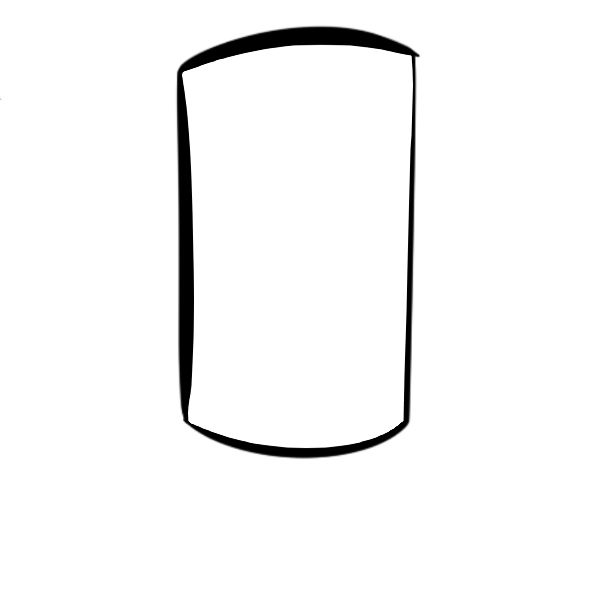
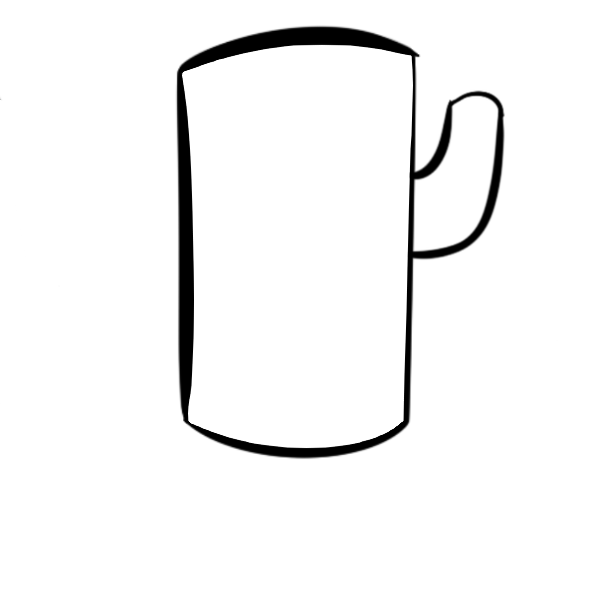
no idea what i'm doing atp

Changed region(s): [[0.69, 0.15, 0.84, 0.45]]

diff --git a/src/view_guycustomizer.c b/src/view_guycustomizer.c
@@ -4,23 +4,58 @@
 #include <string.h>
 #include <stdio.h>
 
+typedef enum {
+    gcz_GuySourceKind_Chaos,
+    gcz_GuySourceKind_HalfBreed,
+    gcz_GuySourceKind_Pure,
+    gcz_GuySourceKind_COUNT,
+} gcz_GuySourceKind;
+static char *gcz_guy_source_names[gcz_GuySourceKind_COUNT] = {
+    [gcz_GuySourceKind_Chaos]     = "chaos",
+    [gcz_GuySourceKind_HalfBreed] = "half breed",
+    [gcz_GuySourceKind_Pure]      = "pure",
+};
+typedef struct {
+    gcz_GuySourceKind kind;
+    guy_Sex sex;
+    guy_Race races[2];
+} gcz_GuySource;
+
+static guy_Guy gcz_guy_from_source(gcz_GuySource source) {
+    switch (source.kind) {
+        case gcz_GuySourceKind_Chaos: {
+            return guy_from_chaos(source.sex);
+        } break;
+        case gcz_GuySourceKind_HalfBreed: {
+            guy_Guy mom = guy_from_race(source.races[0], guy_Sex_Female);
+            guy_Guy dad = guy_from_race(source.races[1], guy_Sex_Male);
+            return guy_from_parents(&mom, &dad);
+        } break;
+        case gcz_GuySourceKind_Pure: {
+            return guy_from_race(source.races[0], source.sex);
+        } break;
+
+        case gcz_GuySourceKind_COUNT: {
+        } break;
+    }
+    return (guy_Guy){0};
+}
+
 static struct {
     view_Transition next_view;
 
-    guy_Race race;
-    guy_Sex sex;
+    gcz_GuySource source;
 } view;
 
 void view_guycustomizer_init(view_Transition _) {
     memset(&view, 0, sizeof(view));
 
-    view.race = guy_Race_Bunny;
-    view.sex = guy_Sex_Female;
-    save.run.guys[0] = guy_from_race(view.race, view.sex);
-    // save.run.guys[0].genes[guy_GeneLoc_HairAsset]->asset[0] = guy_Asset_HumanHair4Front;
-    // save.run.guys[0].genes[guy_GeneLoc_HairAsset]->asset[1] = guy_Asset_HumanHair4Back;
-    // save.run.guys[0].genes[guy_GeneLoc_Girth1]->amount = 4.0f;
-    ui_guy_show_detail_page(&save.run.guys[0]);
+    view.source.kind = gcz_GuySourceKind_HalfBreed;
+    view.source.races[0] = guy_Race_Moai;
+    view.source.races[1] = guy_Race_Bunny;
+    view.source.sex = guy_Sex_Female;
+    save.run.guys[0] = gcz_guy_from_source(view.source);
+    // ui_guy_show_detail_page(&save.run.guys[0]);
 }
 void view_guycustomizer_free(void) {}
 
@@ -34,6 +69,72 @@ void view_guycustomizer_render(void) {
     RL_ClearBackground(RL_WHITE);
     ui_render(ui_create_layout());
     RL_EndDrawing();
+}
+
+
+static void gcz_race_input(guy_Race *out) {
+
+    CLAY_AUTO_ID({
+        .layout = {
+            .layoutDirection = CLAY_TOP_TO_BOTTOM,
+            .childGap = 8,
+            .sizing.height = CLAY_SIZING_FIT(100, 200),
+        },
+        .clip = {
+            .horizontal = true,
+            .vertical = true,
+            .childOffset = Clay_GetScrollOffset()
+        },
+    }) {
+        for (guy_Race r = 1; r < guy_Race_COUNT; r++) {
+            char *race_name = guy_race_names[r];
+
+            CLAY_AUTO_ID({ .layout.padding.left = 16 }) {
+                Clay_String tmp;
+                ui_sprintf(
+                    tmp,
+                    "[%s] %s%s",
+                    (r == *out) ? "x" : "  ",
+                    race_name,
+                    Clay_Hovered() ? " <-" : ""
+                );
+
+                CLAY_TEXT(tmp, ui_font(ui_Font_Desc));
+
+                if (Clay_Hovered() && (
+                    Clay_GetPointerState().state == 
+                        CLAY_POINTER_DATA_RELEASED_THIS_FRAME
+                ))
+                    *out = r;
+            }
+        }
+    }
+}
+
+static void gcz_sex_input(guy_Sex *sex_out) {
+    for (int i = 0; i < 2; i++) {
+        guy_Sex sex = i ? guy_Sex_Male : guy_Sex_Female;
+        char *sex_name = i ? "male" : "female";
+
+        CLAY_AUTO_ID({ .layout.padding.left = 16 }) {
+            Clay_String tmp;
+            ui_sprintf(
+                tmp,
+                "[%s] %s%s",
+                (sex == *sex_out) ? "x" : "  ",
+                sex_name,
+                Clay_Hovered() ? " <-" : ""
+            );
+
+            CLAY_TEXT(tmp, ui_font(ui_Font_Desc));
+
+            if (Clay_Hovered() && (
+                Clay_GetPointerState().state == 
+                    CLAY_POINTER_DATA_RELEASED_THIS_FRAME
+            ))
+                *sex_out = sex;
+        }
+    }
 }
 
 static Clay_RenderCommandArray ui_create_layout(void) {
@@ -52,17 +153,19 @@ static Clay_RenderCommandArray ui_create_layout(void) {
         .backgroundColor = {0}
     }) {
 
-        CLAY_TEXT(CLAY_STRING("race"), ui_font(ui_Font_Button));
-        for (guy_Race r = 0; r < guy_Race_COUNT; r++) {
-            char *race_name = r ? guy_race_names[r] : "CHAOS";
+        CLAY_TEXT(CLAY_STRING("guy tester"), ui_font(ui_Font_SubTitle));
+        CLAY_TEXT(CLAY_STRING("method"), ui_font(ui_Font_Desc));
+
+        for (gcz_GuySourceKind sauce = 0; sauce < gcz_GuySourceKind_COUNT; sauce++) {
+            char *sauce_name = gcz_guy_source_names[sauce];
 
             CLAY_AUTO_ID({ .layout.padding.left = 16 }) {
                 Clay_String tmp;
                 ui_sprintf(
                     tmp,
                     "[%s] %s%s",
-                    (r == view.race) ? "x" : "  ",
-                    race_name,
+                    (sauce == view.source.kind) ? "x" : "  ",
+                    sauce_name,
                     Clay_Hovered() ? " <-" : ""
                 );
 
@@ -72,33 +175,39 @@ static Clay_RenderCommandArray ui_create_layout(void) {
                     Clay_GetPointerState().state == 
                         CLAY_POINTER_DATA_RELEASED_THIS_FRAME
                 ))
-                    view.race = r;
+                    view.source.kind = sauce;
             }
         }
+        CLAY_TEXT(CLAY_STRING(" "), ui_font(ui_Font_Button));
 
-        CLAY_TEXT(CLAY_STRING("sex"), ui_font(ui_Font_Button));
-        for (int i = 0; i < 2; i++) {
-            guy_Sex sex = i ? guy_Sex_Male : guy_Sex_Female;
-            char *sex_name = i ? "male" : "female";
+        switch (view.source.kind) {
 
-            CLAY_AUTO_ID({ .layout.padding.left = 16 }) {
-                Clay_String tmp;
-                ui_sprintf(
-                    tmp,
-                    "[%s] %s%s",
-                    (sex == view.sex) ? "x" : "  ",
-                    sex_name,
-                    Clay_Hovered() ? " <-" : ""
-                );
+            case gcz_GuySourceKind_COUNT:
+            case gcz_GuySourceKind_Chaos: {
+                CLAY_TEXT(CLAY_STRING("sex"), ui_font(ui_Font_Desc));
+                gcz_sex_input(&view.source.sex);
+            } break;
 
-                CLAY_TEXT(tmp, ui_font(ui_Font_Desc));
+            case gcz_GuySourceKind_HalfBreed: {
+                CLAY_TEXT(CLAY_STRING("mom race"), ui_font(ui_Font_Desc));
+                gcz_race_input(&view.source.races[0]);
 
-                if (Clay_Hovered() && (
-                    Clay_GetPointerState().state == 
-                        CLAY_POINTER_DATA_RELEASED_THIS_FRAME
-                ))
-                    view.sex = sex;
-            }
+                CLAY_TEXT(CLAY_STRING(" "), ui_font(ui_Font_Button));
+
+                CLAY_TEXT(CLAY_STRING("dad race"), ui_font(ui_Font_Desc));
+                gcz_race_input(&view.source.races[1]);
+            } break;
+
+            case gcz_GuySourceKind_Pure: {
+                CLAY_TEXT(CLAY_STRING("race"), ui_font(ui_Font_Desc));
+                gcz_race_input(&view.source.races[0]);
+
+                CLAY_TEXT(CLAY_STRING(" "), ui_font(ui_Font_Button));
+
+                CLAY_TEXT(CLAY_STRING("sex"), ui_font(ui_Font_Desc));
+                gcz_sex_input(&view.source.sex);
+            } break;
+
         }
 
         CLAY_AUTO_ID({
@@ -118,10 +227,7 @@ static Clay_RenderCommandArray ui_create_layout(void) {
                 Clay_GetPointerState().state == 
                         CLAY_POINTER_DATA_RELEASED_THIS_FRAME
             )) {
-                if (view.race)
-                    save.run.guys[0] = guy_from_race(view.race, view.sex);
-                else
-                    save.run.guys[0] = guy_from_chaos(view.sex);
+                save.run.guys[0] = gcz_guy_from_source(view.source);
                 ui_guy_show_detail_page(&save.run.guys[0]);
             }
 

diff --git a/src/guy.c b/src/guy.c
@@ -820,6 +820,12 @@ void guy_draw_ex(guy_DrawEx ex) {
         .pos   = ex.pos,
     };
 
+    /* hurt go red */
+    if (ex.hurt_t > 0 && (RL_GetTime() - ex.hurt_t) < 0.4) {
+        double t = ease_out_circ((RL_GetTime() - ex.hurt_t) / 0.4);
+        ctx.skin.r = lerp(min(255, ctx.skin.r + 32), ctx.skin.r, t);
+    }
+
     RL_BeginBlendMode(BLEND_ALPHA_PREMULTIPLY);
 
     guy_draw_layer(&ctx, ctx. hair, guy_system.assets[layer_assets[guy_Layer_Tail     ]]);
@@ -961,14 +967,6 @@ void guy_draw_ex(guy_DrawEx ex) {
 
 
     RL_EndBlendMode();
-
-    // if (hurt_t > 0 && (RL_GetTime() - hurt_t) < 0.4) {
-    //     double t = ease_out_circ((RL_GetTime() - hurt_t) / 0.4);
-    //     skin        .r = lerp(min(255,         skin.r + 32),         skin.r, t);
-    // }
-
-    // RL_Texture t = guy.assets[guy_guy->genes[guy_GeneLoc_HairAsset]->asset];
-
 
     // if (guy_guy->crowned) {
     //     float hair_size = size*0.5;

diff --git a/src/clay_renderer_raylib.h b/src/clay_renderer_raylib.h
@@ -229,10 +229,13 @@ void Clay_Raylib_Render(Clay_RenderCommandArray renderCommands, RL_Font* fonts)
                 CustomLayoutElement *customElement = (CustomLayoutElement *)config->customData;
                 if (!customElement) continue;
 
-                float w = renderCommand->boundingBox.width/2;
+                float w = renderCommand->boundingBox.width /2;
                 float h = renderCommand->boundingBox.height/2;
                 float x = renderCommand->boundingBox.x + w;
                 float y = renderCommand->boundingBox.y + h + w/3;
+                w -=  ui_font_size(ui_Font_Desc) + 5.0f;
+                h -=  ui_font_size(ui_Font_Desc) + 5.0f;
+                y -= (ui_font_size(ui_Font_Desc) + 5.0f)*0.5f;
                 guy_draw_ex((guy_DrawEx) {
                     .guy = customElement,
                     .pos = (f2) { x, y },

diff --git a/src/ui.c b/src/ui.c
@@ -686,7 +686,7 @@ static Clay_RenderCommandArray ui_guy_detail(void) {
                         .width = CLAY_BORDER_OUTSIDE(4),
                         .color = {0, 0, 0, 255}
                     },
-                    .layout.padding = { 32, 32, 32, 32 },
+                    // .layout.padding = { 32, 32, 32, 32 },
                 }) {
                     CLAY_AUTO_ID({
                         .layout = {

diff --git a/src/game.c b/src/game.c
@@ -125,7 +125,7 @@ int main(void) {
 
     guy_system_init();
     ui_init();
-    game.view = View_Title;
+    game.view = View_GuyCustomizer;
     save.run.coin = 185;
     // save.run.furniture[0] = save_Furniture_Bed;
     // {
